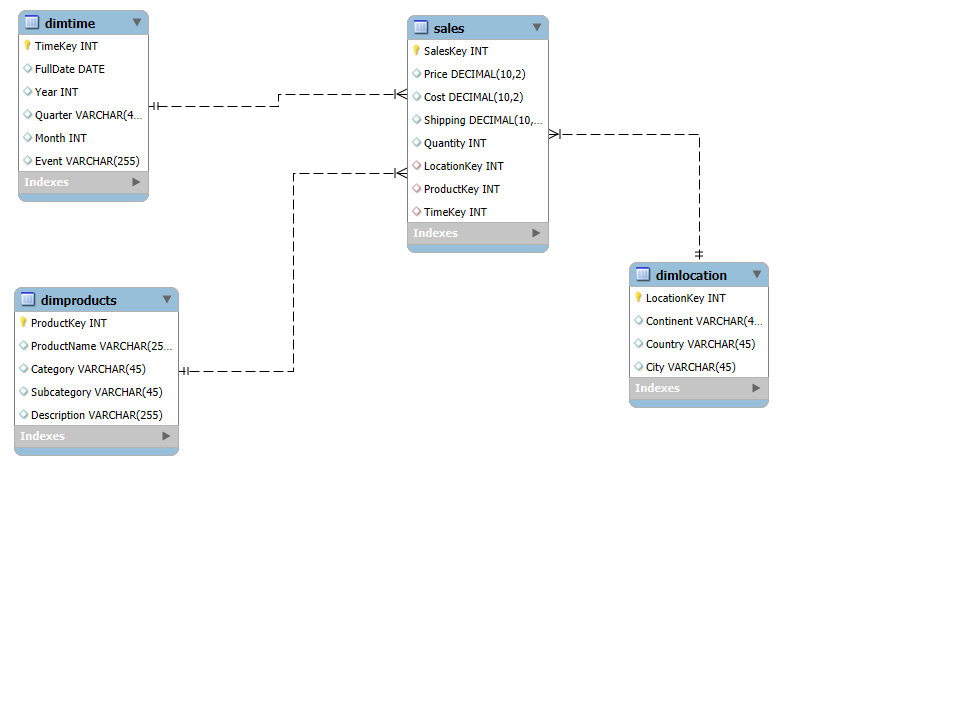
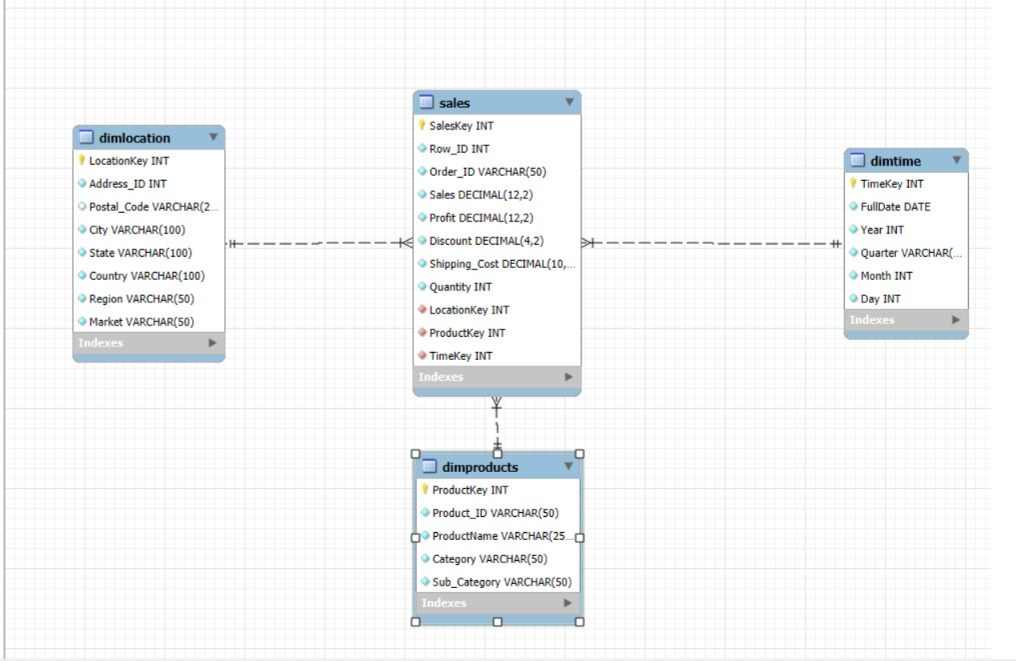
Finalize project: align schema with dataset, add Meta cert to README, regenerate diagrams

diff --git a/README.md b/README.md
@@ -1,6 +1,8 @@
 # 📊 Advanced Data Modeling — Global Superstore
 
-Raw sales data, transformed through a full database design pipeline: normalized schema → dimensional star schema → interactive dashboard.
+[![Meta Database Engineer](https://img.shields.io/badge/Meta_Database_Engineer-Capstone_%C2%B7_26%2F26_(100%25)-0860E5?style=flat-square&logo=meta&logoColor=white)](https://www.coursera.org/account/accomplishments/professional-cert/certificate/ECF0PIQNDK1P)
+
+Raw sales data, transformed through a full database design pipeline: normalized schema → dimensional star schema → interactive Tableau dashboard.
 
 **🔗 Live dashboard:** [GlobalSuperStore on Tableau Public](https://public.tableau.com/app/profile/md.faisal.alam6840/viz/GlobalSuperStore_17888527610020/Dashboard1)
 
@@ -16,6 +18,20 @@ Most beginner data projects start with a clean CSV and jump straight to charts. 
 2. **Transform it into a star schema** — the dimensional model used by BI tools for fast analytical queries
 3. **Build a dashboard** on top, with real written insights, not just default charts
 
+This repo is the capstone project of the **Meta Database Engineer Professional Certificate** (Coursera — *Advanced Data Modeling*), peer-graded **26/26 (100%)**, and extended beyond the course brief with a schema modeled 1:1 from the real dataset.
+
+### Course requirements → deliverables in this repo
+
+| Course requirement | Where it lives here |
+|---|---|
+| Physical ER diagram for Global Super Store (3NF) | `er_diagram.png`, `create_database.sql` |
+| Deploy the model to MySQL via Forward Engineer | `create_database.sql` (MySQL Workbench Forward Engineering output) |
+| Star schema with products, location and time dimensions | `Step3_StarSchema.sql`, `Step3_StarSchema_Diagram.png` |
+| Map chart — sales by USA state with roll-over details | `Sales in USA` worksheet (`GlobalSuperStore.twb`) |
+| Bubble chart — USA profits (state, quantity, profit, shipping cost) | `Profits in USA` worksheet (`GlobalSuperStore.twb`) |
+| Line chart — sales trends, states with sales > $40,000 | `USA Sales Trends` worksheet (`GlobalSuperStore.twb`) |
+| Interactive dashboard combining all three charts | `Dashboard 1` + `dashboard.jpeg` + [live link](https://public.tableau.com/app/profile/md.faisal.alam6840/viz/GlobalSuperStore_17888527610020/Dashboard1) |
+
 ---
 
 ## Entity-relationship diagram (normalized schema)
@@ -24,11 +40,21 @@ Most beginner data projects start with a clean CSV and jump straight to charts. 
 
 Five related tables — `Customers`, `Products`, `Orders`, `Shipping`, `DeliveryAddress` — each holding one entity's data exactly once, connected via foreign keys. This avoids repeating customer or product details across every order row.
 
+Every column is taken directly from the Global Superstore source dataset (no invented fields):
+
+| Table | Columns sourced from the dataset |
+|---|---|
+| `Customers` | Customer ID, Customer Name, Segment |
+| `Products` | Product ID, Product Name, Category, Sub-Category |
+| `DeliveryAddress` | Postal Code, City, State, Country, Region, Market |
+| `Shipping` | Ship Date, Ship Mode, Shipping Cost |
+| `Orders` | Row ID, Order ID, Order Date, Sales, Quantity, Discount, Profit, Order Priority |
+
 ## Star schema (dimensional model)
 
 ![Star schema diagram](Step3_StarSchema_Diagram.png)
 
-The normalized tables are then reshaped into a **fact table** (`Sales`, holding the numeric measures — price, cost, quantity, shipping) surrounded by three **dimension tables** (`DimTime`, `DimLocation`, `DimProducts`) holding the descriptive attributes used for filtering and grouping. This is the structure BI tools like Tableau are optimized to query quickly.
+The normalized tables are then reshaped into a **fact table** (`Sales`, holding the numeric measures — sales, profit, discount, shipping cost, quantity) surrounded by three **dimension tables** (`DimTime`, `DimLocation`, `DimProducts`) holding the descriptive attributes used for filtering and grouping — exactly the products, location and time dimensions the business brief asked for. This is the structure BI tools like Tableau are optimized to query quickly.
 
 ---
 
@@ -36,9 +62,9 @@ The normalized tables are then reshaped into a **fact table** (`Sales`, holding 
 
 1. **Raw data** — Global Superstore sales data (Excel)
 2. **Normalize** — designed into a 5-table relational schema (`create_database.sql`), enforcing no data duplication
-3. **ETL into star schema** — `Step3_StarSchema.sql` extracts from the normalized tables, transforms the shape, and loads it into `Sales` + 3 dimension tables
-4. **Verify** — queries run and joined successfully against the star schema (see `star_schema_verification.jpg`)
-5. **Visualize** — the same source dataset is connected to Tableau, producing an interactive dashboard with written analysis
+3. **ETL into star schema** — `Step3_StarSchema.sql` loads representative sample rows into the normalized tables, extracts from them, transforms the shape, and loads into `Sales` + 3 dimension tables
+4. **Verify** — queries run and joined successfully against the star schema, verifying joins, key mappings, and aggregations (see `star_schema_verification.jpg`)
+5. **Visualize** — the same source dataset is connected to Tableau, producing an interactive dashboard with maps, trend charts, and written analysis of regional sales patterns
 
 ---
 
@@ -56,8 +82,8 @@ The normalized tables are then reshaped into a **fact table** (`Sales`, holding 
 ## Run it locally
 
 1. Open **MySQL Workbench**
-2. Run `create_database.sql` — builds the normalized schema and tables
-3. Run `Step3_StarSchema.sql` — transforms the normalized data into the star schema (fact + dimension tables)
+2. Run `create_database.sql` — builds the normalized 5-table schema
+3. Run `Step3_StarSchema.sql` — inserts representative sample rows, transforms them into the star schema (fact + dimension tables), and runs the verification queries
 4. Open `GlobalSuperStore.twb` in **Tableau Desktop** to view/edit the dashboard, or view it live on the [published link](https://public.tableau.com/app/profile/md.faisal.alam6840/viz/GlobalSuperStore_17888527610020/Dashboard1)
 
 ---
@@ -66,6 +92,7 @@ The normalized tables are then reshaped into a **fact table** (`Sales`, holding 
 
 - **Validated the star-schema ETL on a representative sample before scaling** — confirming the transformation logic (joins, key mapping, aggregation) works correctly on a small, verifiable dataset first, rather than running an unverified transformation against the full dataset. Standard practice before a full production run.
 - **The dashboard and the database layer are kept as separate, composable stages** — Tableau connects to the cleaned source data directly, while the MySQL schema/ETL work demonstrates the data modeling layer independently. This separation mirrors how real analytics stacks decouple the data warehouse layer from the BI layer, rather than hard-coupling one tool to one specific database.
+- **Schema columns modeled 1:1 from the source dataset** — every column in the normalized schema maps to a real Global Superstore column (Segment, Region, Market, Sales, Profit, Discount, Shipping Cost), so the model stays honest to the data it represents.
 
 ## Future improvements
 
@@ -77,4 +104,4 @@ The normalized tables are then reshaped into a **fact table** (`Sales`, holding 
 
 ## Built by
 
-**Faisal** — [GitHub](https://github.com/faisal-devvv)
+**Faisal** — [GitHub](https://github.com/faisal-devvv) · Capstone of the [Meta Database Engineer Professional Certificate](https://www.coursera.org/account/accomplishments/professional-cert/certificate/ECF0PIQNDK1P)
